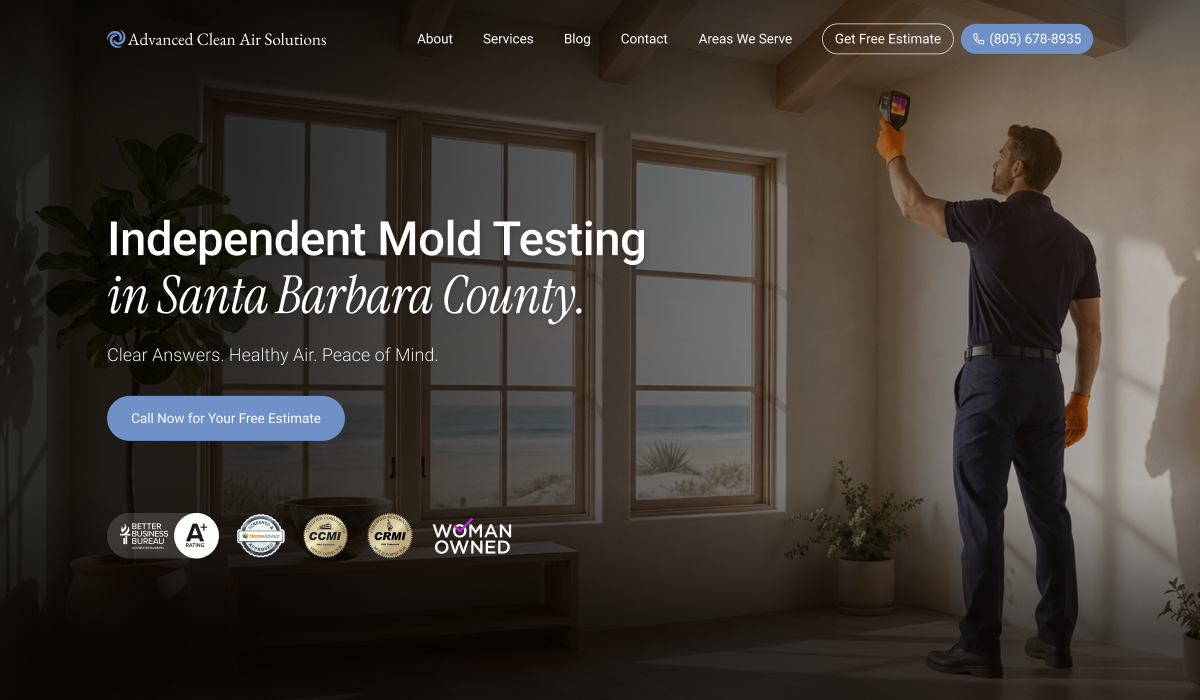
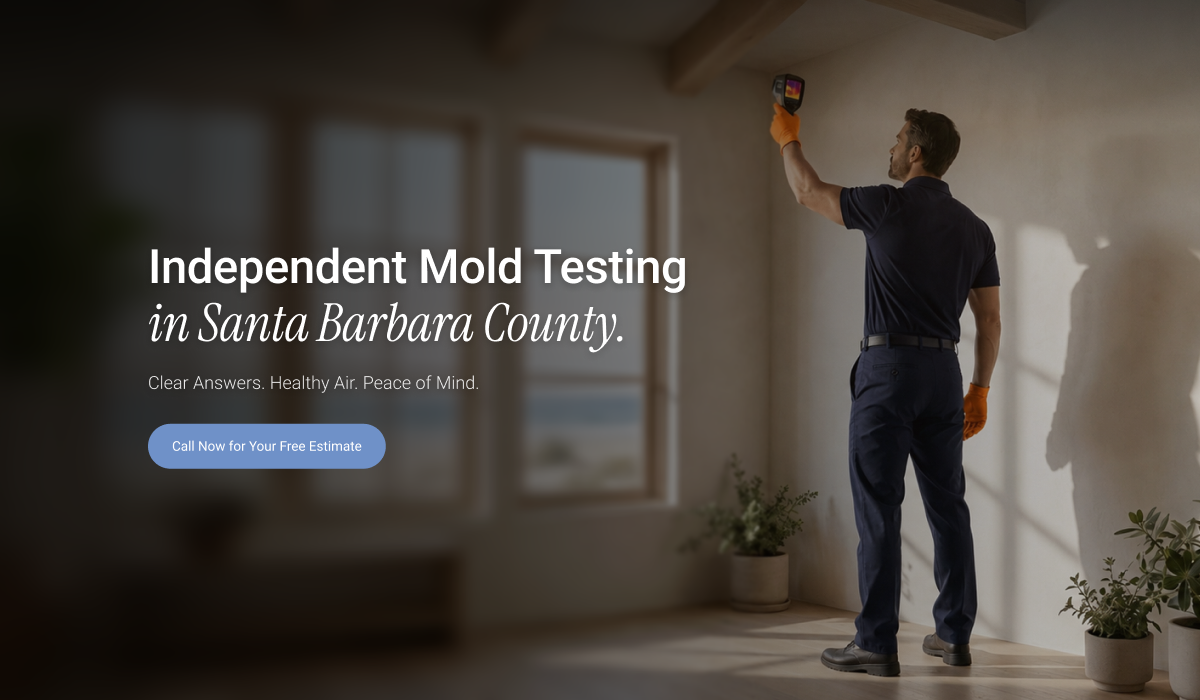
acas upd

diff --git a/acas.html b/acas.html
@@ -183,6 +183,10 @@
                     <img src="img/acas_05.png" alt="Side-by-side of the old hero section vs the new hero section" class="w-full h-auto object-cover">
                 </div>
 
+                <div class="w-full overflow-hidden border border-stone-900/10 bg-stone-100 my-6">
+                    <img src="img/acas_06.gif" alt="Side-by-side of the old hero section vs the new hero section" class="w-full h-auto object-cover">
+                </div>
+
                 <h3 class="text-lg md:text-xl font-bold text-stone-900 tracking-tight leading-none mt-2">The Business Impact: Trust and Positioning</h3>
                 <p class="text-stone-600 leading-relaxed text-[15px] md:text-base">
                     The most significant outcome of this redesign is the dramatic shift in brand positioning. By entirely revamping the visual system and information architecture, Advanced Clean Air Solutions gained immediate brand trust. Their digital presence is finally aligned with the high-end, vital service they provide to luxury homeowners, ensuring that when a potential client lands on their page, they feel they are in expert hands.
